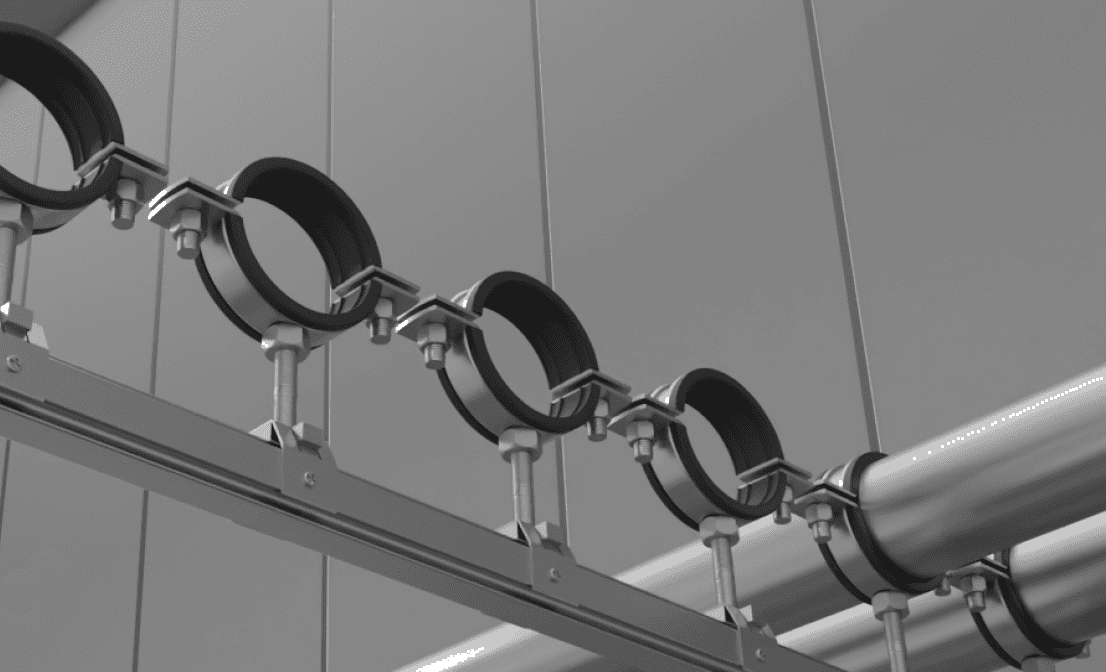
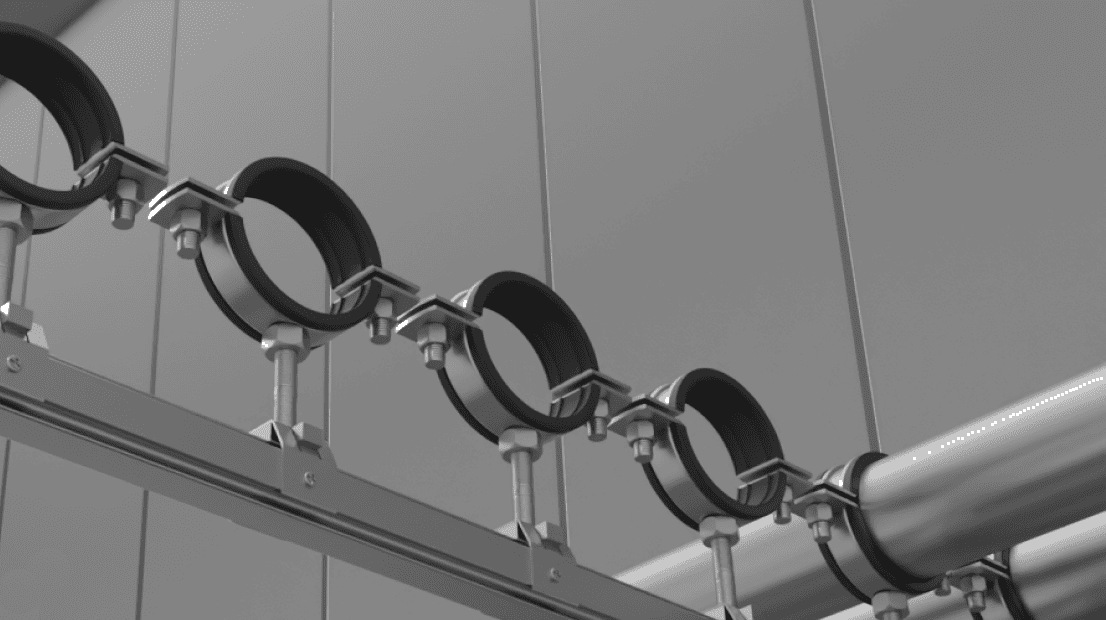
fix main image

diff --git a/src/pages/main/index.html b/src/pages/main/index.html
@@ -121,7 +121,7 @@
                >
                   <source
                      srcset="../../assets/images/main.png"
-                     media="(min-width: 1280px)"
+                     media="(min-width: 980px)"
                   />
                   <!-- <source
                      srcset=".assets/images/ma_1.png"
@@ -131,6 +131,11 @@
                      srcset=".assets/images/big_1.png"
                      media="(min-width: 320px)"
                   /> -->
+                  <img
+                     class="hommet__image"
+                     alt="Картинка продукции Хоммет"
+                     src="../../assets/images/main.png"
+                  />
                </picture>
             </section>
             <div class="marquee">
@@ -241,12 +246,13 @@
                   >
                      <source
                         srcset="../../assets/images/sdm.jpg"
-                        media="(min-width: 1280px)"
+                        media="(min-width: 980px)"
                      />
-                     <!-- <source
-                     srcset=".assets/images/ma_1.png"
-                     media="(min-width: 980px)"
-                  /> -->
+
+                     <img
+                        src="../../assets/images/sdm.jpg"
+                        alt="Система сохого монтажа"
+                     />
                   </picture>
                </div>
                <ul class="sdm__list cards"></ul>
